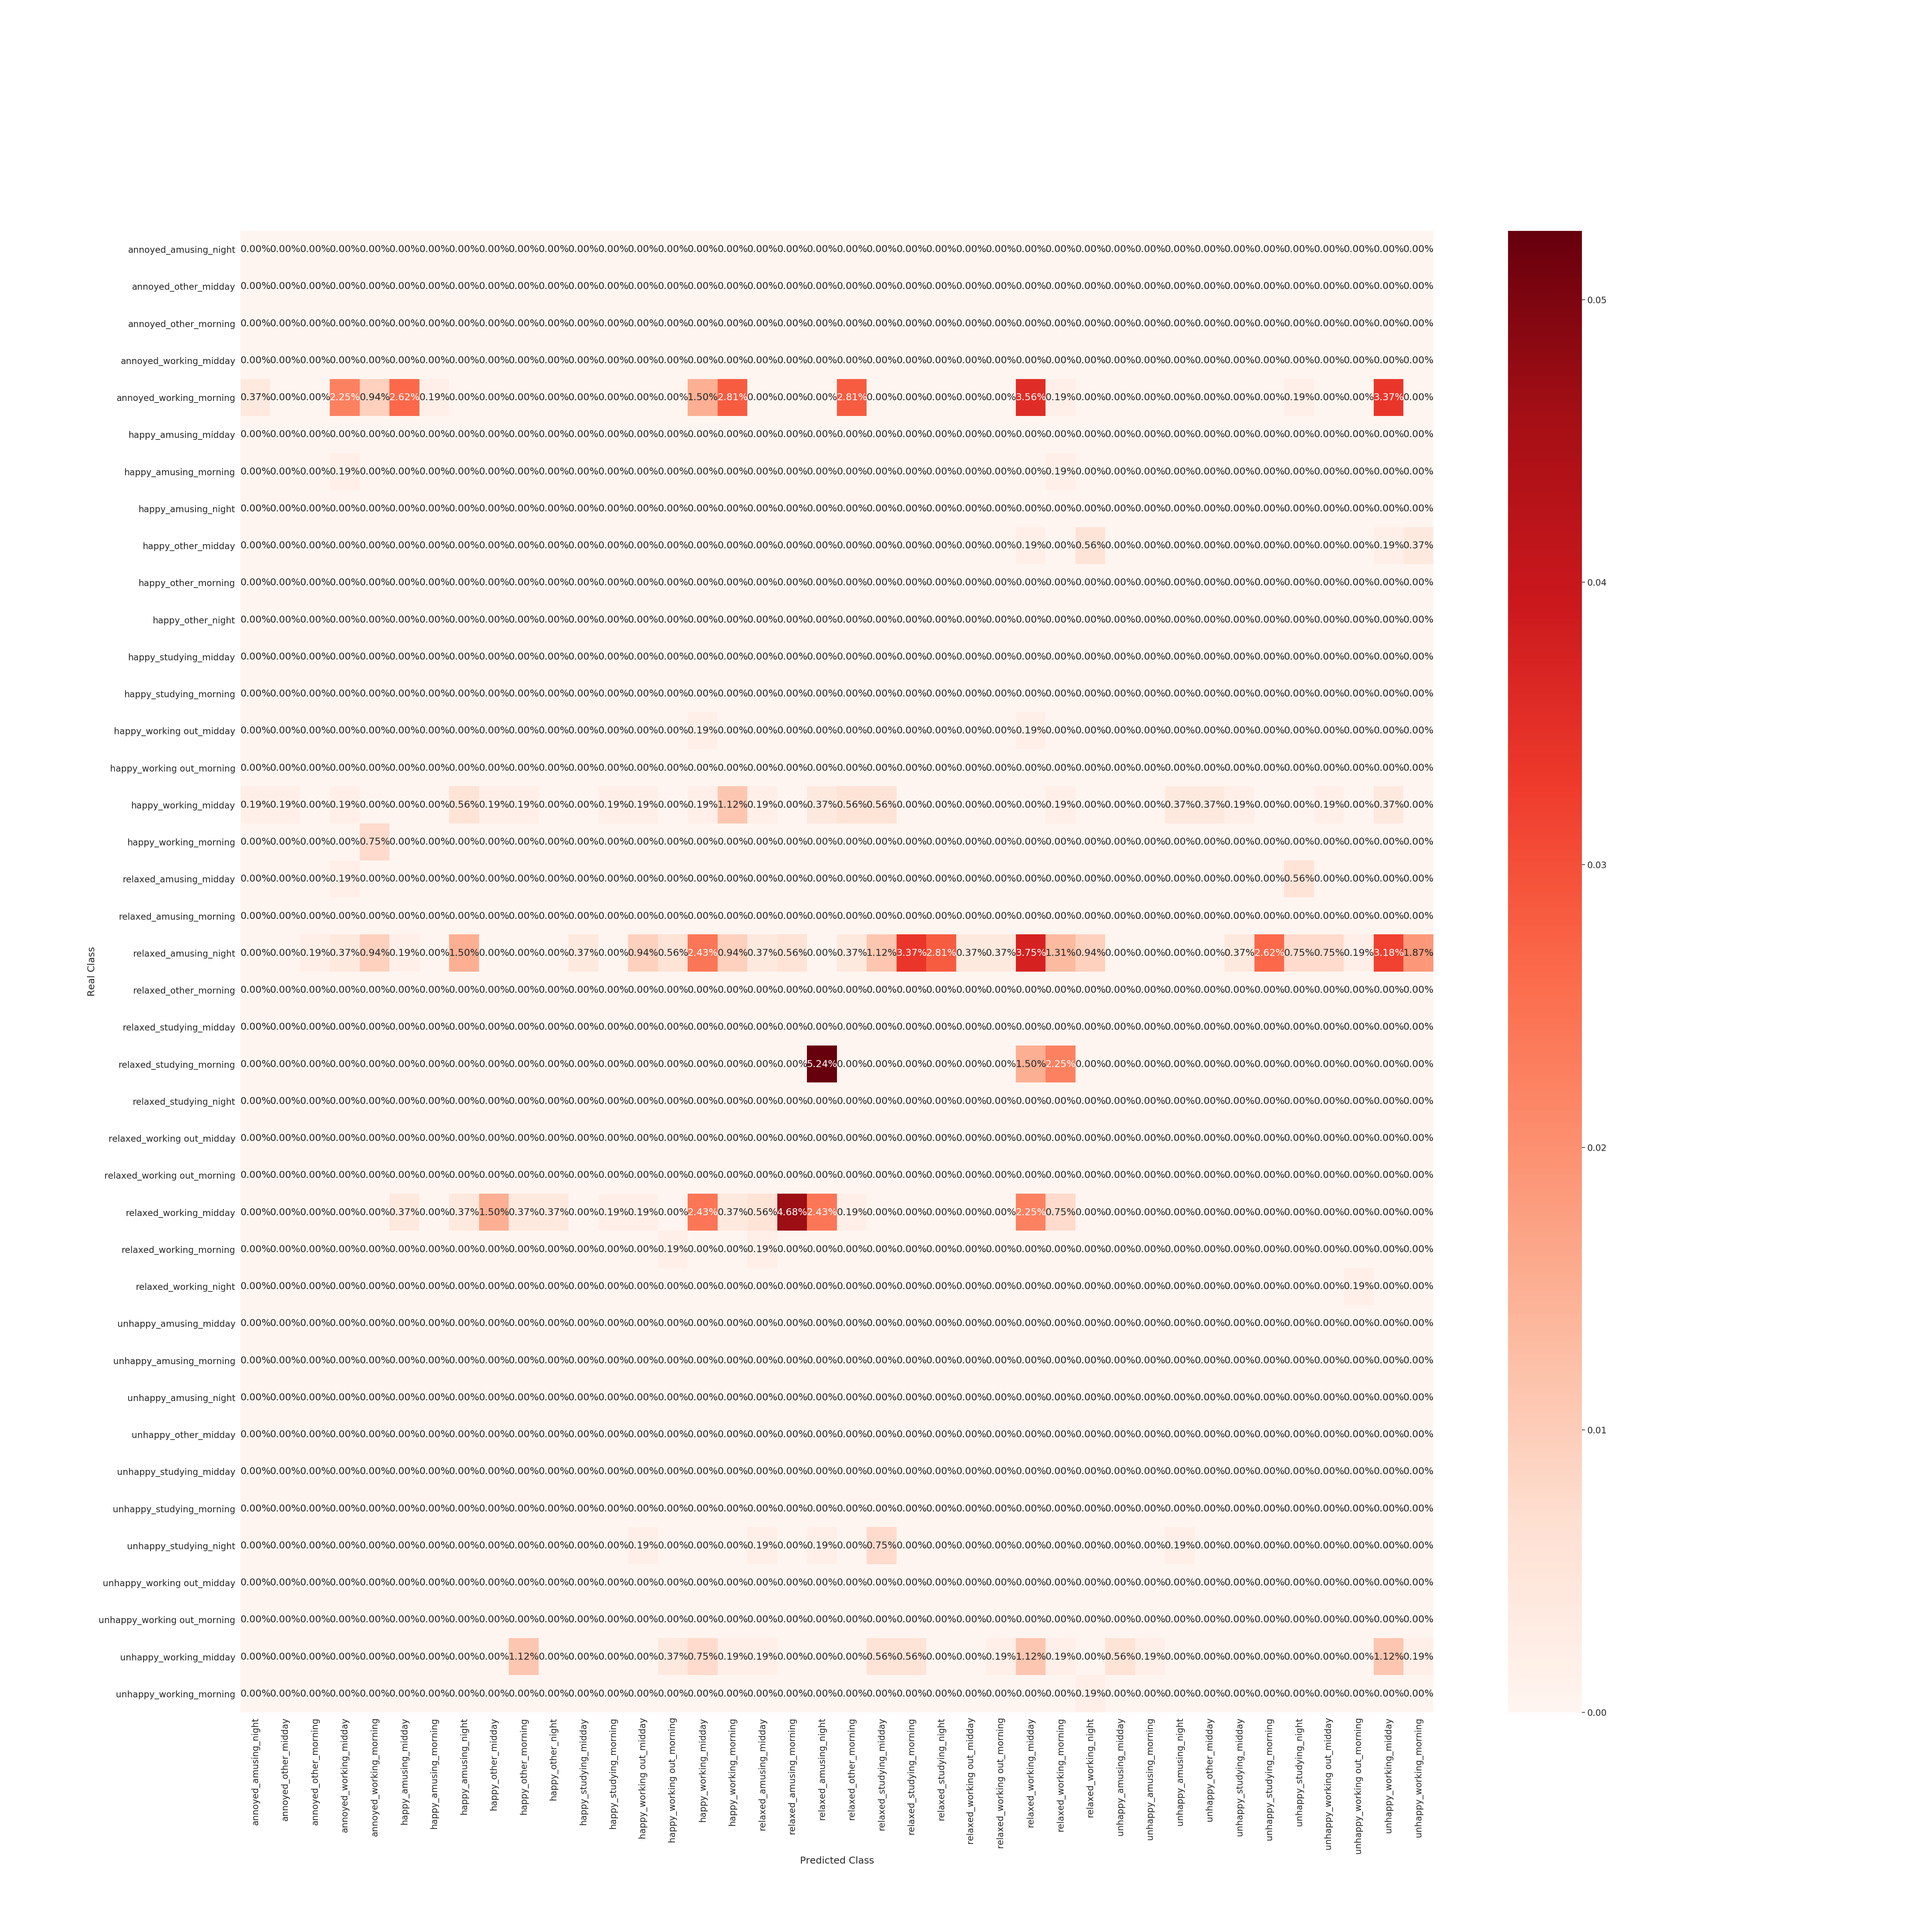
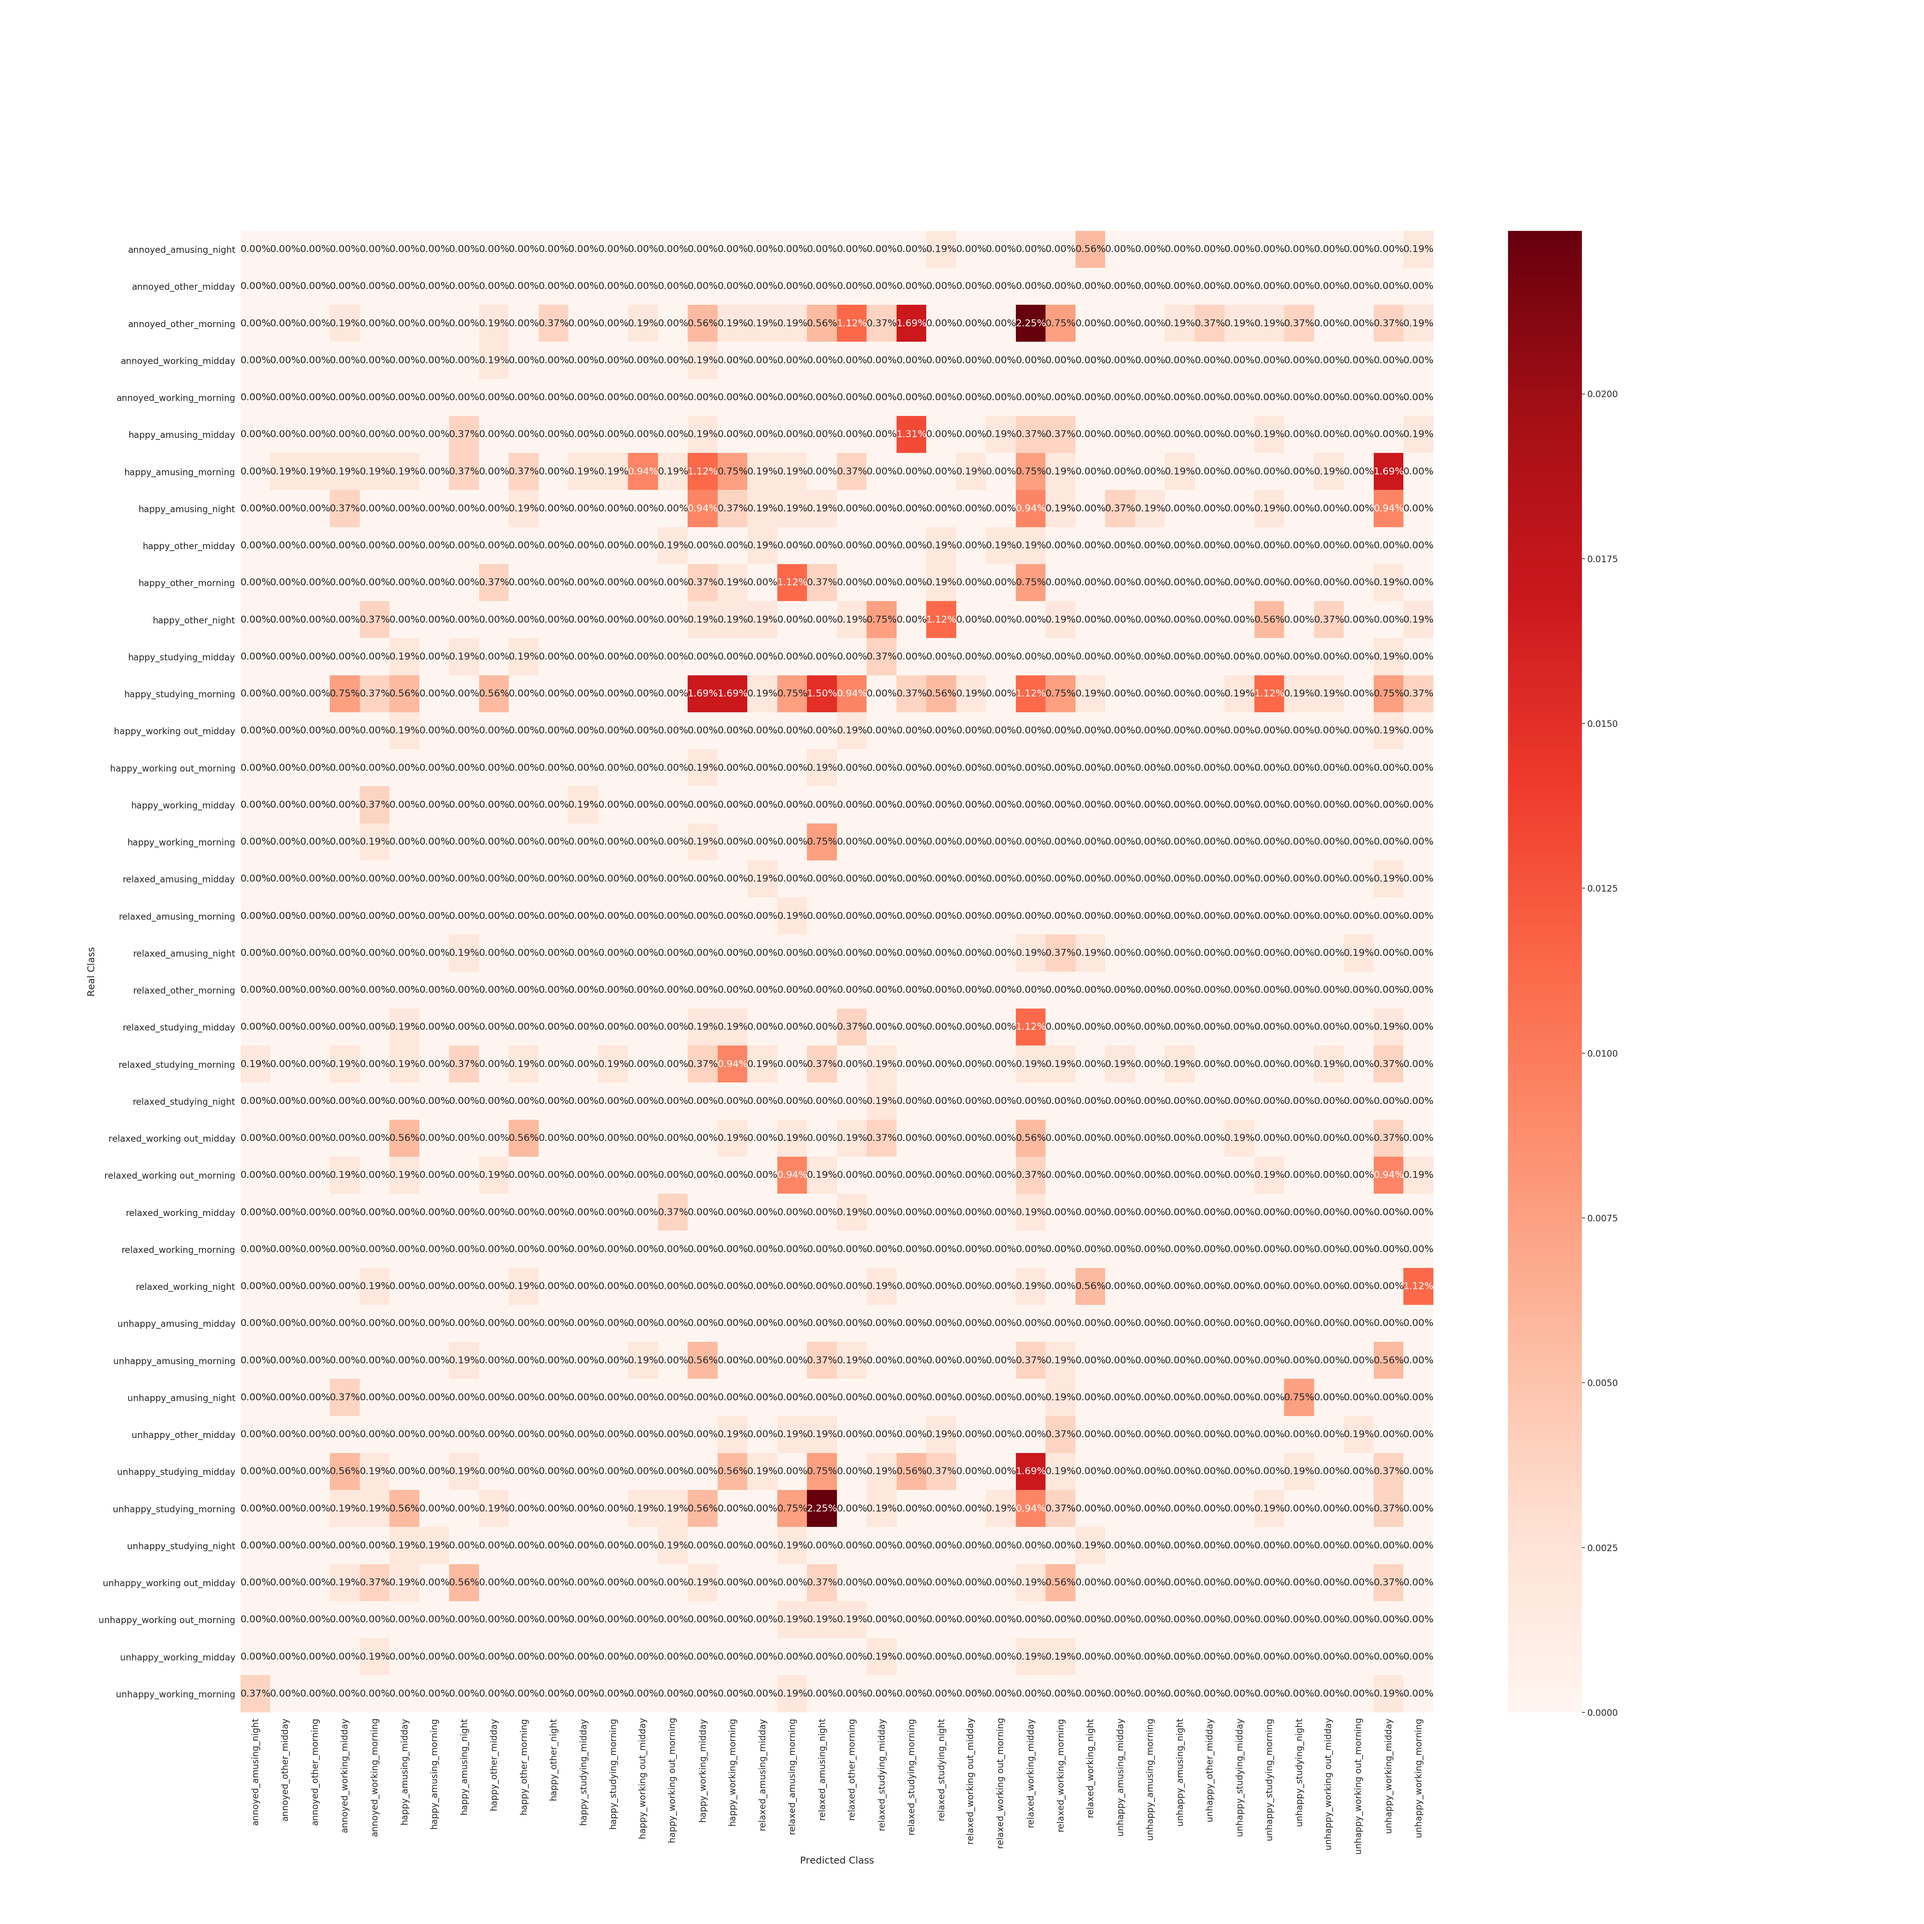
neuron network balances their weights, to classify with justice

diff --git a/prediction/YoutubeNeuronNetwork.py b/prediction/YoutubeNeuronNetwork.py
@@ -2,11 +2,16 @@ import keras
 import matplotlib.pyplot as plt
 import numpy as np
 import pandas as pd
+import sklearn.metrics as metrics
+import tensorflow as tf
+from keras import backend as K
+from keras import optimizers
 from keras.layers import Dense, Dropout
 from keras.models import Sequential
-from keras.optimizers import SGD
-from sklearn.model_selection import train_test_split
+from keras.wrappers.scikit_learn import KerasClassifier
+from sklearn.model_selection import cross_val_predict
 from sklearn.preprocessing import LabelEncoder
+
 import prediction.Utilities as utilities
 
 FIGURES_PATH = "prediction/figures/"
@@ -15,7 +20,6 @@ le = LabelEncoder()
 def load_and_preprocess_data(dataset_path,users=[]):
     # Load data
     df = pd.read_csv(dataset_path)
-    df['user_id'] = df['user_id'].astype(int).astype(str)
     if (utilities.particularUsersAskedFor(users)):
         # ask for songs of specific user
         df = df[df['user_id'].isin(users)]
@@ -34,69 +38,94 @@ def load_and_preprocess_data(dataset_path,users=[]):
     Y = Y.iloc[1:]
     print("Y.head = ", Y.head())
 
-    x_train, x_test, y_train, y_test = train_test_split(X, Y, test_size=0.2)
-    print("x_train.shape = ",x_train.shape)
-    print("x_test.shape = ",x_test.shape)
-
     # Preprocess the data
-    x_train = x_train.astype('float32')
-    x_test = x_test.astype('float32')
+    X = X.astype('float32')
 
     # scale the input variables to the range [0, 1]
-    x_train = x_train / 255.0
-    x_test = x_test / 255.0
+    X = X / 255.0
 
     classes = np.unique(Y.values)
     num_classes = len(classes)
     print("We have {} unique classes: {}".format(num_classes, classes))
 
     # encode the labels, converting them from strings to integers
-
-    y_train = le.fit_transform(y_train)
-    y_test = le.fit_transform(y_test)
+    Y = le.fit_transform(Y)
 
     # Transform the labels into vectors in the range [0, num_classes]
     # generate a vector for each label where the index of the label
     # is set to `1` and all other entries to `0`
-    y_train = keras.utils.to_categorical(y_train, num_classes)
-    y_test = keras.utils.to_categorical(y_test, num_classes)
+    Y = keras.utils.to_categorical(Y, num_classes)
 
-    print("y_train.shape = ",y_train.shape)
-    print("y_test.shape = ",y_test.shape)
+    return X,Y,classes
 
-    return (x_train, y_train), (x_test, y_test)
-
-#Build the Feed forward model
-#import kfold validation by sklearn into keras
-from keras.wrappers.scikit_learn import KerasClassifier
-from sklearn.model_selection import cross_val_score, cross_val_predict, cross_validate
-def build_classifier():
+def build_classifier(output_dim = 34):
     model = Sequential()
-    model.add(Dense(484, activation='relu', input_shape=(34,)))  # 34 features
-    model.add(Dense(484, activation='relu'))
+    model.add(Dense(10, activation='relu', input_shape=(34,)))  # 34 features
+    model.add(Dense(10, activation='relu'))
     model.add(Dropout(0.25))
-    model.add(Dense(484, activation='relu'))
-    model.add(Dense(6, activation='softmax'))  # when run for user 1, should have output=9
-    model.compile(loss='categorical_crossentropy', optimizer='adam', metrics=['accuracy'])
+    model.add(Dense(10, activation='relu'))
+    model.add(Dense(output_dim, activation='softmax'))  # when run for user 1, should have output=9
+    optimizer = optimizers.SGD(lr=0.01, momentum=0.8, nesterov=False)
+    model.compile(loss=[focal_loss], metrics=["accuracy"], optimizer=optimizer)
     return model
 
+ # Define our custom loss function
+def focal_loss(y_true, y_pred):
+    gamma = 2.0
+    alpha = 0.25
+    pt_1 = tf.where(tf.equal(y_true, 1), y_pred, tf.ones_like(y_pred))
+    pt_0 = tf.where(tf.equal(y_true, 0), y_pred, tf.zeros_like(y_pred))
+    return -K.sum(alpha * K.pow(1. - pt_1, gamma) * K.log(pt_1)) - K.sum(
+        (1 - alpha) * K.pow(pt_0, gamma) * K.log(1. - pt_0))
 
-def train(x_train, x_test, y_train, y_test):
-    classifier = KerasClassifier(build_fn=build_classifier, epochs=20, batch_size=128)
-    # predictions = cross_val_predict(estimator=classifier, X=x_train, y=y_train, cv=10)
+def train_evaluate(X,Y, users, classes):
+    epochs = 50
+    classifier = KerasClassifier(build_fn=build_classifier, output_dim = Y.shape[1], epochs=epochs, batch_size=128)
+    k = 9
+    y_pred = cross_val_predict(classifier, X, Y, cv=k)
+    rounded_labels = np.argmax(Y, axis=1)
 
-    accuracies = cross_val_score(estimator=classifier, X=x_train, y=y_train, cv=3)
-    mean = accuracies.mean() #we want one output accuracy, so we calculate the mean
-    variance = accuracies.std()
-    print("The mean accuracy is {} and the variance is {}".format(mean, variance))
+    classification_report = metrics.classification_report(rounded_labels, y_pred, target_names=classes)
+    print("classification_report ", classification_report)
+    balanced_accuracy = metrics.balanced_accuracy_score(rounded_labels, y_pred)
+    print("The balanced accuracy is ", balanced_accuracy)
+
+    heatmap_save_path = FIGURES_PATH + "youtube_heatmap_allUsers.png"
+    if (utilities.particularUsersAskedFor(users)):
+        heatmap_save_path = FIGURES_PATH + "youtube_heatmap_user"+str(users)+".png"
+    utilities.plot_confusion_matrix(rounded_labels, y_pred, classes, heatmap_save_path, "Greys", (50,50))
 
 
+def model_eval(history, epochs, img_path):
+    print("Evaluating network...")
+
+    # plot the training and test loss and accuracy
+    N = np.arange(0, epochs,1)
+    plt.style.use("ggplot")
+    plt.figure()
+    plt.plot(N, history.history["loss"], label="train_loss")
+    plt.plot(N, history.history["val_loss"], label="test_loss")
+    plt.plot(N, history.history["accuracy"], label="train_acc")
+    plt.plot(N, history.history["val_accuracy"], label="test_acc")
+    plt.title("Training Loss and Accuracy (Simple NN)")
+    plt.xlabel("Epoch #")
+    plt.ylabel("Loss/Accuracy")
+    plt.legend()
+    plt.savefig(img_path)
+
+def exploratory_nalysis(df, users):
+    figure_name = FIGURES_PATH+"youtube_class_support_allUsers.png"
+    if (utilities.particularUsersAskedFor(users)):
+        figure_name = FIGURES_PATH + "youtube_class_support_user"+str(users)+".png"
+    fig = plt.figure(figsize=(14,18))
+    df['Class'].value_counts().nlargest(40).plot(kind='bar', color='grey', edgecolor='black', linewidth=1)
+    plt.title("Support for all classes")
+    plt.ylabel("Number of instances")
+    plt.xlabel("Class")
+    fig.savefig(figure_name)
+    print(df.groupby('Class').size())
 
 def classify(dataset_path, users=[]):
-    (x_train, y_train), (x_test, y_test) = load_and_preprocess_data(dataset_path, users)
-    train(x_train, x_test, y_train, y_test)
-    # history = train(x_train, x_test, y_train, y_test)
-    # if (utilities.allUsersAskedFor(users)):
-    #     model_eval(history, 20, "youtube_accuracy_allUsers")
-    # elif (utilities.particularUsersAskedFor(users)):
-    #     model_eval(history, 20, "youtube_accuracy_users" + str(users))
+    x, y, classes = load_and_preprocess_data(dataset_path, users)
+    train_evaluate(x,y, users, classes)
+

diff --git a/prediction/SpotifyClassifier.py b/prediction/SpotifyClassifier.py
@@ -1,3 +1,4 @@
+import matplotlib.pyplot as plt
 import numpy as np
 import pandas as pd
 import sklearn.metrics as metrics
@@ -21,6 +22,9 @@ def preprocess_datasheet(df, users=[]):
 
     df = utilities.unify_classes(df)
     df['Class'] = df['mood'] + "_" + df['activity'] + "_" + df['period']
+
+    num_users = len(np.unique(df['user_id'].values))
+    print("{} songs listened by {} users".format(df.shape[0]-1, num_users))
     return df
 
 def balancedClassifier(df):
@@ -51,16 +55,27 @@ def balancedClassifier(df):
     print(" Balanced accuracy = ", balanced_accuracy)
     return predictions, Y
 
-def exploratory_nalysis(df):
-    print("Summarise distribution of instances across classes", df.groupby('Class').size())
+def exploratory_nalysis(df,users):
+    figure_name = FIGURES_PATH+"spotify_class_support.png"
+    if (utilities.particularUsersAskedFor(users)):
+        figure_name = FIGURES_PATH + "spotify_class_support"+str(users)+".png"
+    fig = plt.figure()
+    df['Class'].value_counts().nlargest(40).plot(kind='bar', figsize=(18,15), color='red', edgecolor='green', linewidth=1)
+    plt.title("Support for all classes")
+    plt.ylabel("Number of instances")
+    plt.xlabel("Class")
+    fig.savefig(figure_name)
+
+    print(df.groupby('Class').size())
 
 def classify(dataset_path, users=[]):
     df = pd.read_excel(dataset_path)
     df = preprocess_datasheet(df, users)
-    exploratory_nalysis(df)
+    classes = utilities.getUniqueElements(df['Class'].values)
+    exploratory_nalysis(df, users)
     # The dataset is unbalanced. We cannot use SMOTE(there are classes with one instance)
     Y_predicted, Y_real = balancedClassifier(df)
     if (utilities.allUsersAskedFor(users)):
-        utilities.plot_confusion_matrix(Y_real.values.ravel(), Y_predicted, FIGURES_PATH+"spotify_heatmap_allUsers.png")
+        utilities.plot_confusion_matrix(Y_real.values.ravel(), Y_predicted, classes, FIGURES_PATH+"spotify_heatmap_allUsers.png", 'Reds')
     elif (utilities.particularUsersAskedFor(users)):
-        utilities.plot_confusion_matrix(Y_real.values.ravel(), Y_predicted, FIGURES_PATH+"spotify_heatmap_users"+str(users)+".png")
+        utilities.plot_confusion_matrix(Y_real.values.ravel(), Y_predicted, classes, FIGURES_PATH+"spotify_heatmap_users"+str(users)+".png", 'Reds')

diff --git a/prediction/Utilities.py b/prediction/Utilities.py
@@ -20,13 +20,12 @@ def unify_classes(df):
     df['activity'] = df['activity'].replace({'commuting': 'other'})
     return df
 
-def plot_confusion_matrix(Y, predictions,path):
-    cf_matrix = confusion_matrix(predictions, Y)
-    classes = np.unique(Y)
-    fig = plt.figure(figsize=(50,50))
+def plot_confusion_matrix(target_test, target_pred, labels, path, color, figsize=(50,50)):
+    cf_matrix = confusion_matrix(target_pred, target_test)
+    fig = plt.figure(figsize=figsize)
     sn.set(font_scale=1.5)
-    mood_matx = sn.heatmap(cf_matrix / np.sum(cf_matrix), annot=True, xticklabels=classes, yticklabels=classes,
-                           fmt='.2%', cmap='Reds')
+    mood_matx = sn.heatmap(cf_matrix / np.sum(cf_matrix), annot=True, xticklabels=labels, yticklabels=labels,
+                           fmt='.2%', cmap=color)
     mood_matx.set_xticklabels(mood_matx.get_xticklabels(), rotation=90)
     plt.xlabel('Predicted Class')
     plt.ylabel('Real Class')
@@ -37,3 +36,6 @@ def allUsersAskedFor(users=['0']):
 
 def particularUsersAskedFor(users=['0']):
     return len(users) > 0 and users[0] != '0'
+
+def getUniqueElements(values):
+    return np.unique(values)
